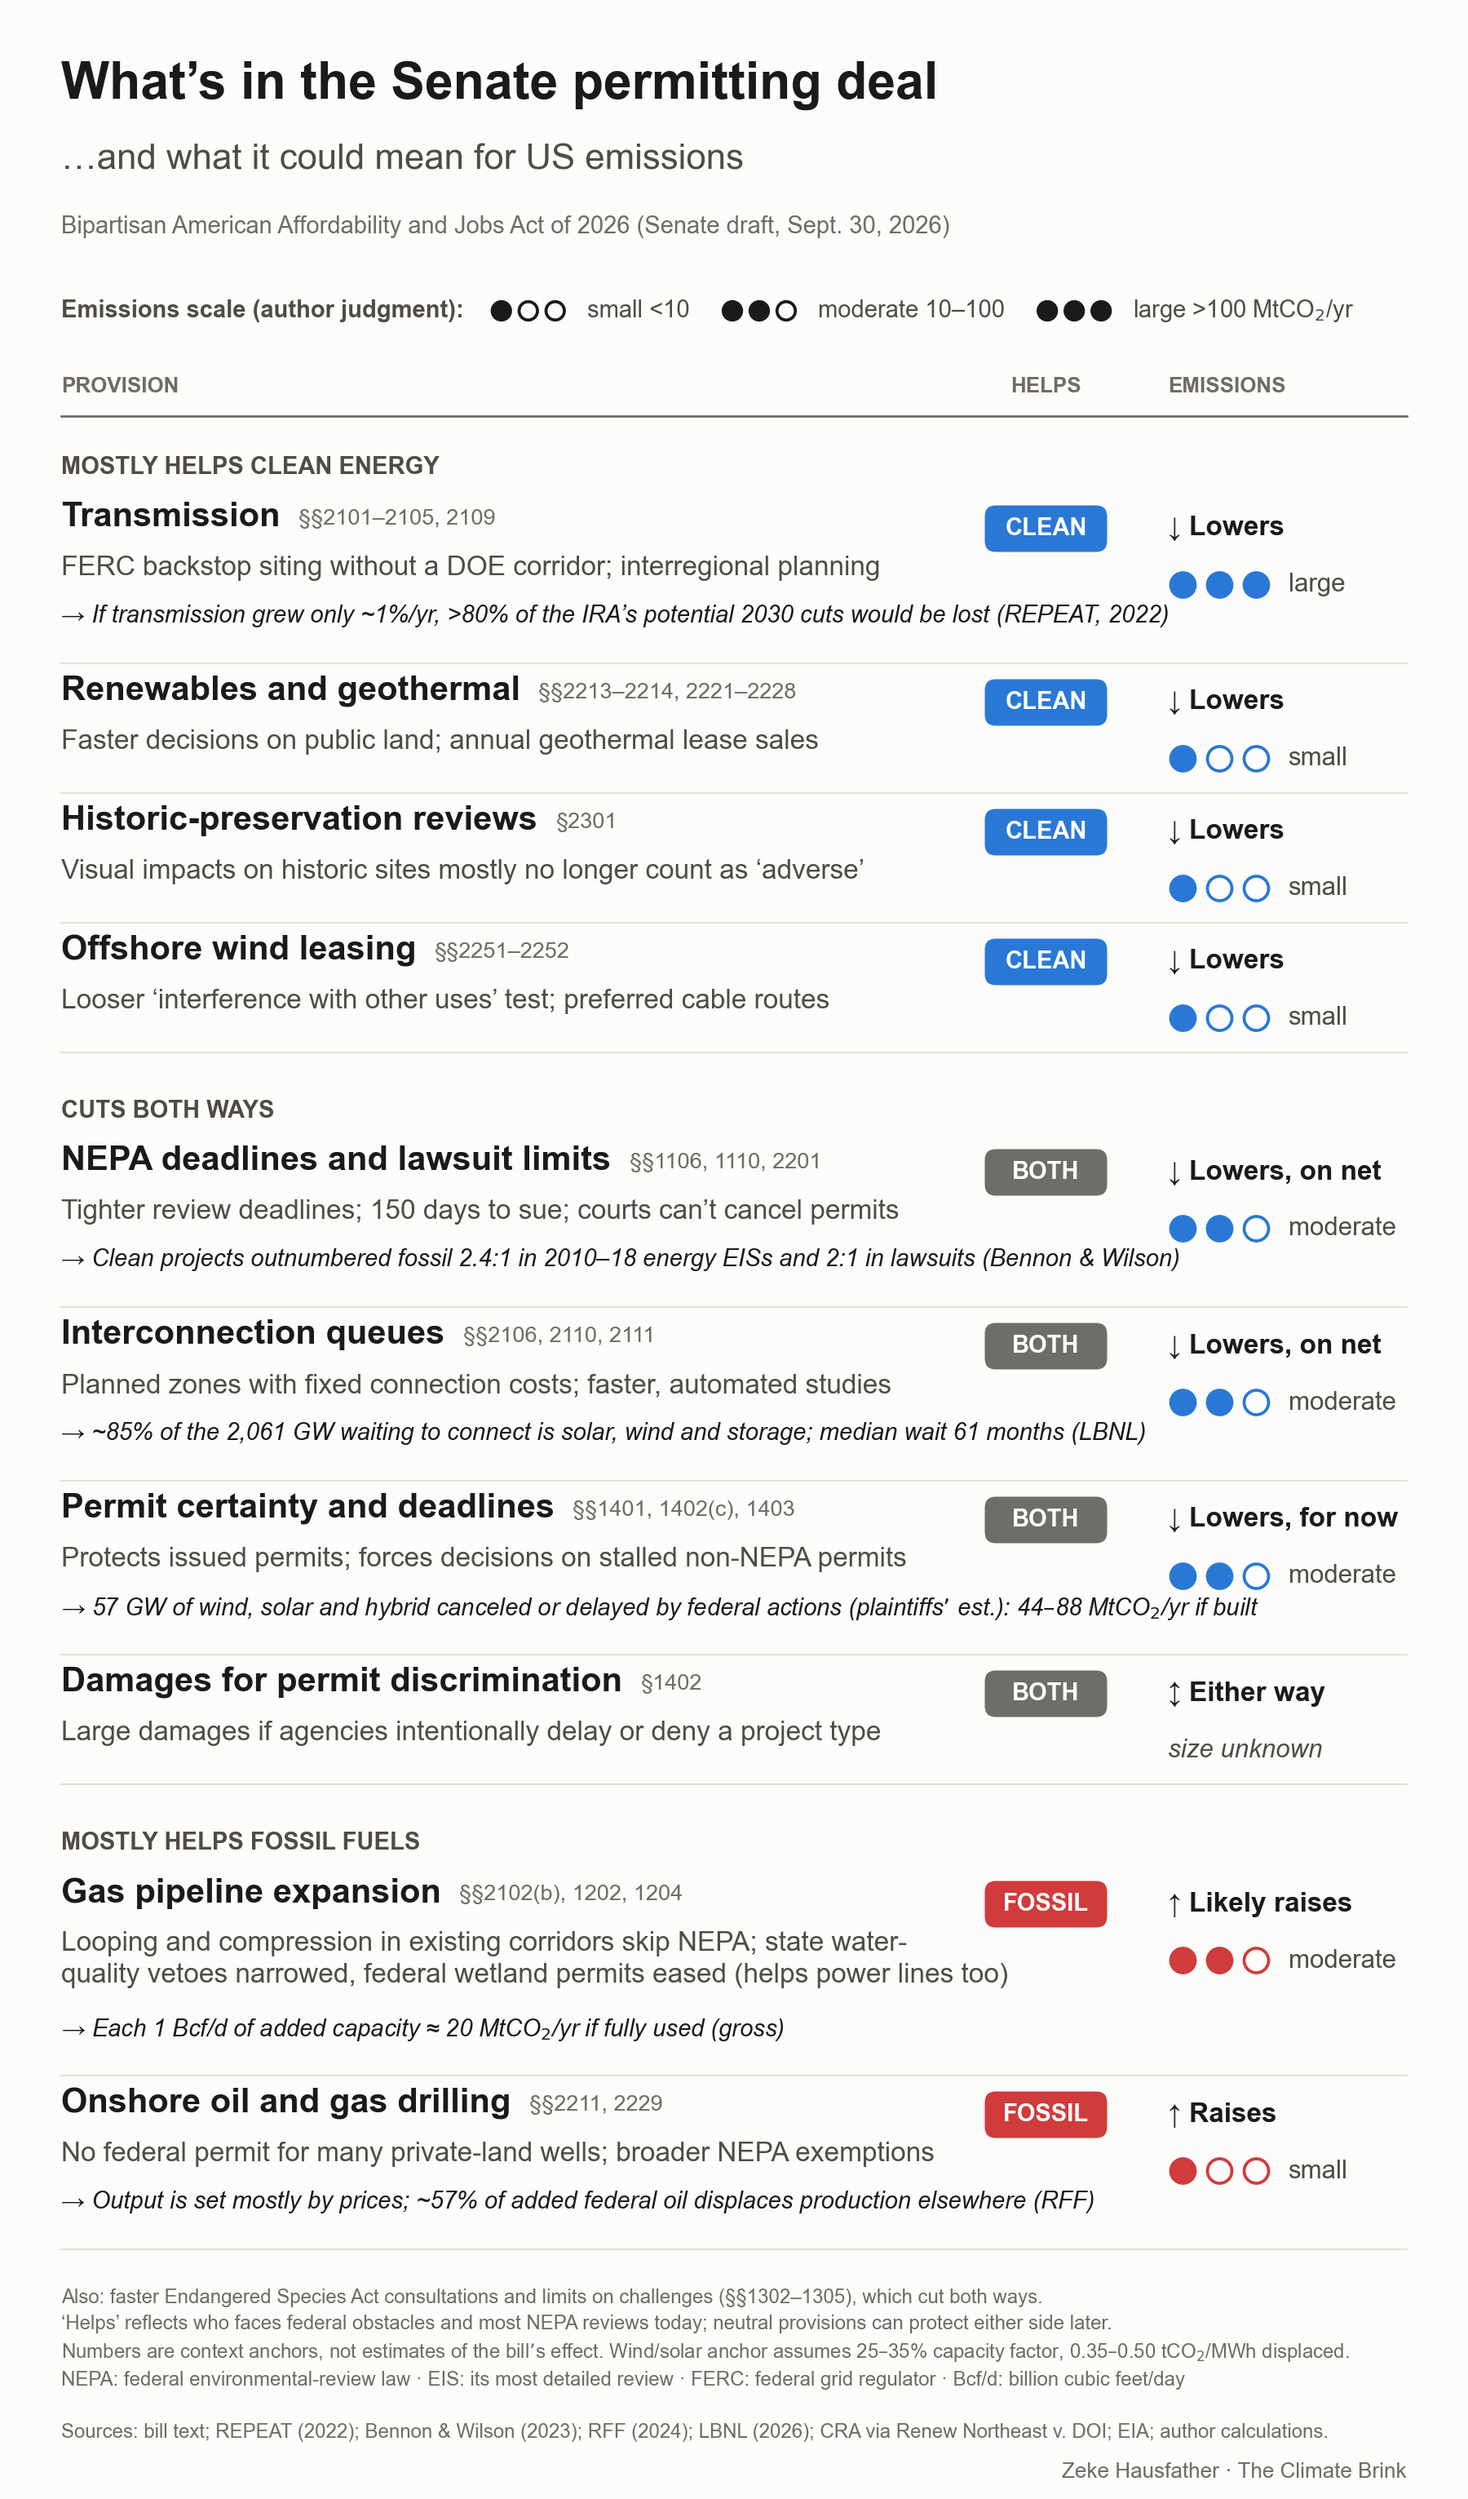
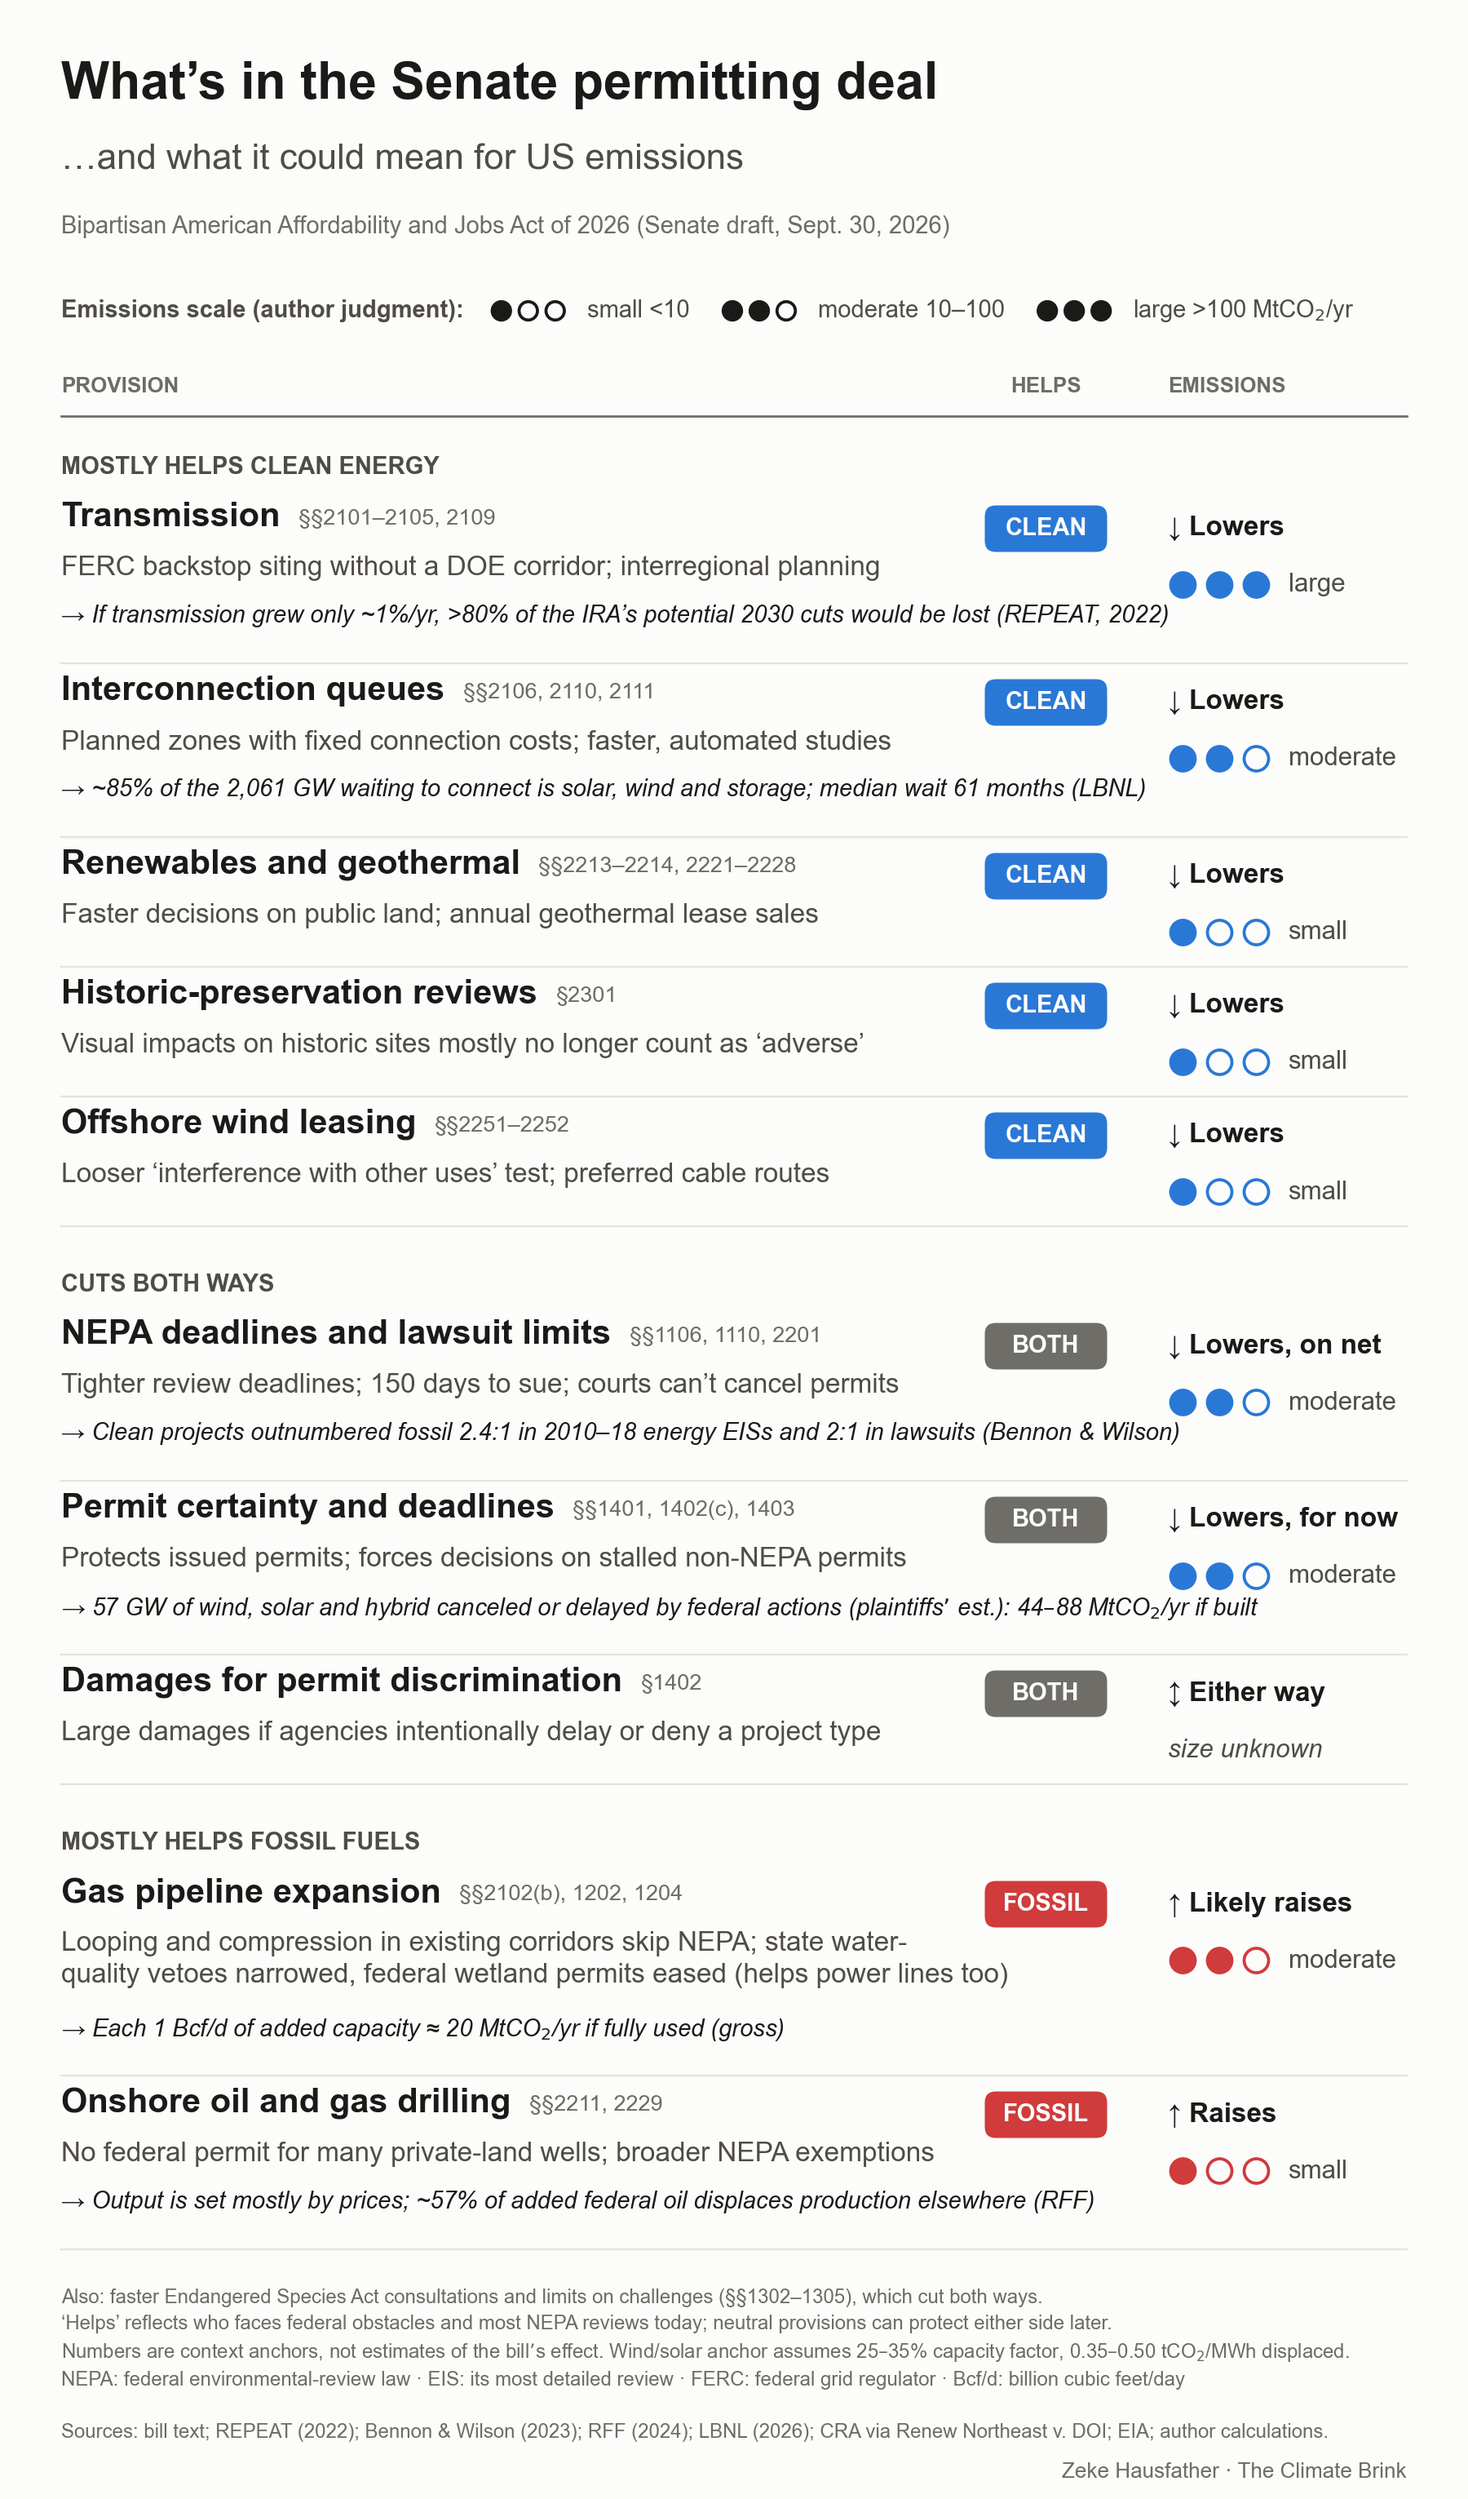
Move interconnection queues to 'mostly helps clean energy' (~85% of queued capacity is clean)

Changed region(s): [[0.0311, 0.2481, 0.9333, 0.5893], [0.7156, 0.5583, 0.7778, 0.5893], [0.9022, 0.2791, 0.9333, 0.3102]]

diff --git a/index.html b/index.html
@@ -105,12 +105,12 @@ footer { font-size: .9rem; color: var(--ink3); }
       <tbody>
 <tr class="grp"><th colspan="4" scope="colgroup">Mostly helps clean energy</th></tr>
 <tr><td class="prov"><strong>Transmission</strong><span class="sec">§§2101–2105, 2109</span></td><td class="what"><p>FERC backstop siting without a DOE corridor; interregional planning</p><p class="anchor">→ If transmission grew only ~1%/yr, &gt;80% of the IRA’s potential 2030 cuts would be lost (REPEAT, 2022) <a href="https://zenodo.org/records/7106176" target="_blank" rel="noopener">source</a></p></td><td class="helps"><span class="chip chip-clean">CLEAN</span></td><td><div class="em em-down"><strong>↓ Lowers</strong><span class="scale"><span class="dot on"></span><span class="dot on"></span><span class="dot on"></span><span>large</span></span></div></td></tr>
+<tr><td class="prov"><strong>Interconnection queues</strong><span class="sec">§§2106, 2110, 2111</span></td><td class="what"><p>Planned zones with fixed connection costs; faster, automated studies</p><p class="anchor">→ ~85% of the 2,061 GW waiting to connect is solar, wind and storage; median wait 61 months (LBNL) <a href="https://emp.lbl.gov/publications/queued-2026-edition-characteristics" target="_blank" rel="noopener">source</a></p></td><td class="helps"><span class="chip chip-clean">CLEAN</span></td><td><div class="em em-down"><strong>↓ Lowers</strong><span class="scale"><span class="dot on"></span><span class="dot on"></span><span class="dot"></span><span>moderate</span></span></div></td></tr>
 <tr><td class="prov"><strong>Renewables and geothermal</strong><span class="sec">§§2213–2214, 2221–2228</span></td><td class="what"><p>Faster decisions on public land; annual geothermal lease sales</p></td><td class="helps"><span class="chip chip-clean">CLEAN</span></td><td><div class="em em-down"><strong>↓ Lowers</strong><span class="scale"><span class="dot on"></span><span class="dot"></span><span class="dot"></span><span>small</span></span></div></td></tr>
 <tr><td class="prov"><strong>Historic-preservation reviews</strong><span class="sec">§2301</span></td><td class="what"><p>Visual impacts on historic sites mostly no longer count as ‘adverse’</p></td><td class="helps"><span class="chip chip-clean">CLEAN</span></td><td><div class="em em-down"><strong>↓ Lowers</strong><span class="scale"><span class="dot on"></span><span class="dot"></span><span class="dot"></span><span>small</span></span></div></td></tr>
 <tr><td class="prov"><strong>Offshore wind leasing</strong><span class="sec">§§2251–2252</span></td><td class="what"><p>Looser ‘interference with other uses’ test; preferred cable routes</p></td><td class="helps"><span class="chip chip-clean">CLEAN</span></td><td><div class="em em-down"><strong>↓ Lowers</strong><span class="scale"><span class="dot on"></span><span class="dot"></span><span class="dot"></span><span>small</span></span></div></td></tr>
 <tr class="grp"><th colspan="4" scope="colgroup">Cuts both ways</th></tr>
 <tr><td class="prov"><strong>NEPA deadlines and lawsuit limits</strong><span class="sec">§§1106, 1110, 2201</span></td><td class="what"><p>Tighter review deadlines; 150 days to sue; courts can’t cancel permits</p><p class="anchor">→ Clean projects outnumbered fossil 2.4:1 in 2010–18 energy EISs and 2:1 in lawsuits (Bennon &amp; Wilson) <a href="https://www.elr.info/sites/default/files/files-general/53.10836.pdf" target="_blank" rel="noopener">source</a></p></td><td class="helps"><span class="chip chip-both">BOTH</span></td><td><div class="em em-down"><strong>↓ Lowers, on net</strong><span class="scale"><span class="dot on"></span><span class="dot on"></span><span class="dot"></span><span>moderate</span></span></div></td></tr>
-<tr><td class="prov"><strong>Interconnection queues</strong><span class="sec">§§2106, 2110, 2111</span></td><td class="what"><p>Planned zones with fixed connection costs; faster, automated studies</p><p class="anchor">→ ~85% of the 2,061 GW waiting to connect is solar, wind and storage; median wait 61 months (LBNL) <a href="https://emp.lbl.gov/publications/queued-2026-edition-characteristics" target="_blank" rel="noopener">source</a></p></td><td class="helps"><span class="chip chip-both">BOTH</span></td><td><div class="em em-down"><strong>↓ Lowers, on net</strong><span class="scale"><span class="dot on"></span><span class="dot on"></span><span class="dot"></span><span>moderate</span></span></div></td></tr>
 <tr><td class="prov"><strong>Permit certainty and deadlines</strong><span class="sec">§§1401, 1402(c), 1403</span></td><td class="what"><p>Protects issued permits; forces decisions on stalled non-NEPA permits</p><p class="anchor">→ 57 GW of wind, solar and hybrid canceled or delayed by federal actions (plaintiffs’ est.): 44–88 MtCO₂/yr if built <a href="https://www.utilitydive.com/news/court-trump-wind-solar-permitting/818152/" target="_blank" rel="noopener">source</a></p></td><td class="helps"><span class="chip chip-both">BOTH</span></td><td><div class="em em-down"><strong>↓ Lowers, for now</strong><span class="scale"><span class="dot on"></span><span class="dot on"></span><span class="dot"></span><span>moderate</span></span></div></td></tr>
 <tr><td class="prov"><strong>Damages for permit discrimination</strong><span class="sec">§1402</span></td><td class="what"><p>Large damages if agencies intentionally delay or deny a project type</p></td><td class="helps"><span class="chip chip-both">BOTH</span></td><td><div class="em em-both"><strong>↕ Either way</strong><span class="scale"><span>unknown</span></span></div></td></tr>
 <tr class="grp"><th colspan="4" scope="colgroup">Mostly helps fossil fuels</th></tr>

diff --git a/infographic.py b/infographic.py
@@ -79,6 +79,11 @@ GROUPS = [
              lean="clean", dir="down", dlab="Lowers", scale=3,
              anchor="If transmission grew only ~1%/yr, >80% of the IRA’s potential "
                     "2030 cuts would be lost (REPEAT, 2022)"),
+        dict(name="Interconnection queues", sec="§§2106, 2110, 2111",
+             what="Planned zones with fixed connection costs; faster, automated studies",
+             lean="clean", dir="down", dlab="Lowers", scale=2,
+             anchor=f"~{A['q_clean_share']*100:.0f}% of the {A['q_total']:,} GW waiting to connect is "
+                    f"solar, wind and storage; median wait {A['q_months']} months (LBNL)"),
         dict(name="Renewables and geothermal", sec="§§2213–2214, 2221–2228",
              what="Faster decisions on public land; annual geothermal lease sales",
              lean="clean", dir="down", dlab="Lowers", scale=1, anchor=None),
@@ -95,11 +100,6 @@ GROUPS = [
              lean="both", dir="down", dlab="Lowers, on net", scale=2,
              anchor="Clean projects outnumbered fossil 2.4:1 in 2010–18 energy EISs "
                     "and 2:1 in lawsuits (Bennon & Wilson)"),
-        dict(name="Interconnection queues", sec="§§2106, 2110, 2111",
-             what="Planned zones with fixed connection costs; faster, automated studies",
-             lean="both", dir="down", dlab="Lowers, on net", scale=2,
-             anchor=f"~{A['q_clean_share']*100:.0f}% of the {A['q_total']:,} GW waiting to connect is "
-                    f"solar, wind and storage; median wait {A['q_months']} months (LBNL)"),
         dict(name="Permit certainty and deadlines", sec="§§1401, 1402(c), 1403",
              what="Protects issued permits; forces decisions on stalled non-NEPA permits",
              lean="both", dir="down", dlab="Lowers, for now", scale=2,

diff --git a/METHODS.md b/METHODS.md
@@ -21,7 +21,7 @@ Every provision description was checked against the bill text. An independent ad
 | Offshore wind (§§2251–2252) | Clean | Small | Looser OCSLA 8(p)(4)(I) standard, preferred cable routes, and DOI as lead agency. Economics, not permits, are the main constraint after the IRA. |
 | NHPA (§2301) | Clean | Small | Procedural; saves time and mitigation cost; §110(f) landmarks untouched. |
 | Renewables/geothermal (§§2213–2214, 2221–2228) | Clean | Small | Federal land is a small share of wind and solar siting. §2108 was removed from this row because its behind-the-meter definition includes fossil backup generators. |
-| Interconnection queues (§§2106, 2110, 2111) | Both (lowers, on net) | Moderate | §2106 requires consolidated 20-year generation-transmission planning with "resource and fuel-neutral planned interconnection locations", "upfront, fixed, zonal, per-megawatt" costs, single-decision-point cluster studies, nonrefundable financial security and withdrawal penalties. FERC has 18 months for the rule, and regions file within 2 years. §2110 covers AI and automation in queue processing; §2111 requires grid data within 15 days plus an automated-study specification. The provisions are fuel-neutral, but the queue is mostly clean. LBNL Queued Up 2026 (end of 2025) shows solar 773, storage 749, wind 220 and gas 253 GW of a 2,061 GW total, so solar+wind+storage = 84.5% and gas = 12.3% (computed in `anchors()`). The median wait was 61 months for projects built in 2025. Caveats: the gas queue grew 86% in 2025 while the others shrank; gas may have higher completion rates; withdrawal penalties mostly clear speculative solar and wind, which speeds up real projects of all types; FERC Order 2023 already required cluster studies, so part of this is codification. Added at Zeke's request; he agreed that it benefits both renewables and gas. |
+| Interconnection queues (§§2106, 2110, 2111) | Clean | Moderate | §2106 requires consolidated 20-year generation-transmission planning with "resource and fuel-neutral planned interconnection locations", "upfront, fixed, zonal, per-megawatt" costs, single-decision-point cluster studies, nonrefundable financial security and withdrawal penalties. FERC has 18 months for the rule, and regions file within 2 years. §2110 covers AI and automation in queue processing; §2111 requires grid data within 15 days plus an automated-study specification. The provisions are fuel-neutral, but the queue is mostly clean. LBNL Queued Up 2026 (end of 2025) shows solar 773, storage 749, wind 220 and gas 253 GW of a 2,061 GW total, so solar+wind+storage = 84.5% and gas = 12.3% (computed in `anchors()`). The median wait was 61 months for projects built in 2025. Caveats: the gas queue grew 86% in 2025 while the others shrank; gas may have higher completion rates; withdrawal penalties mostly clear speculative solar and wind, which speeds up real projects of all types; FERC Order 2023 already required cluster studies, so part of this is codification. Added at Zeke's request. It was first rated Both and moved to Clean because ~85% of queued capacity is clean, far more lopsided than the NEPA row's EIS mix (clean 57% of all energy EISs), which stays Both. Gas still benefits. |
 | Permit certainty and deadlines (§§1401–1403) | Both | Moderate | §1401 protects issued permits of any type (including pipelines and LNG) and is clean-leaning today. §§1402(c)/1403 force decisions (not approvals) on stalled non-NEPA permits. The §§1402(c)/1403 deadlines reach only permits that need no EIS or EA. Anchor: 57.2 GW of wind, solar, hybrid and offshore capacity canceled or delayed beyond 2029. This is a plaintiffs' consultant estimate (Charles River Associates) cited by the court in Renew Northeast v. DOI (PI of Apr 21 2026), via Utility Dive. At an ASSUMED 25–35% capacity factor and 0.35–0.50 t/MWh, that is 44–88 MtCO₂/yr if built. It is not all attributable to the bill, since deadlines force decisions, not approvals, and §1402 claims wait 180–280 days. |
 | Disparate-treatment damages (§1402) | Both | Unknown | Deters future pauses (e.g., LNG); the magnitude depends on future administrations. |
 | Pipeline expansion (§§2102(b), 1202, 1204) | Fossil | Moderate | Pipeline capacity is binding in the Northeast. Gross anchor: 20 MtCO₂/yr per Bcf/d. The net effect depends on displacement and methane. The 401 and 404 changes also help power lines. |
